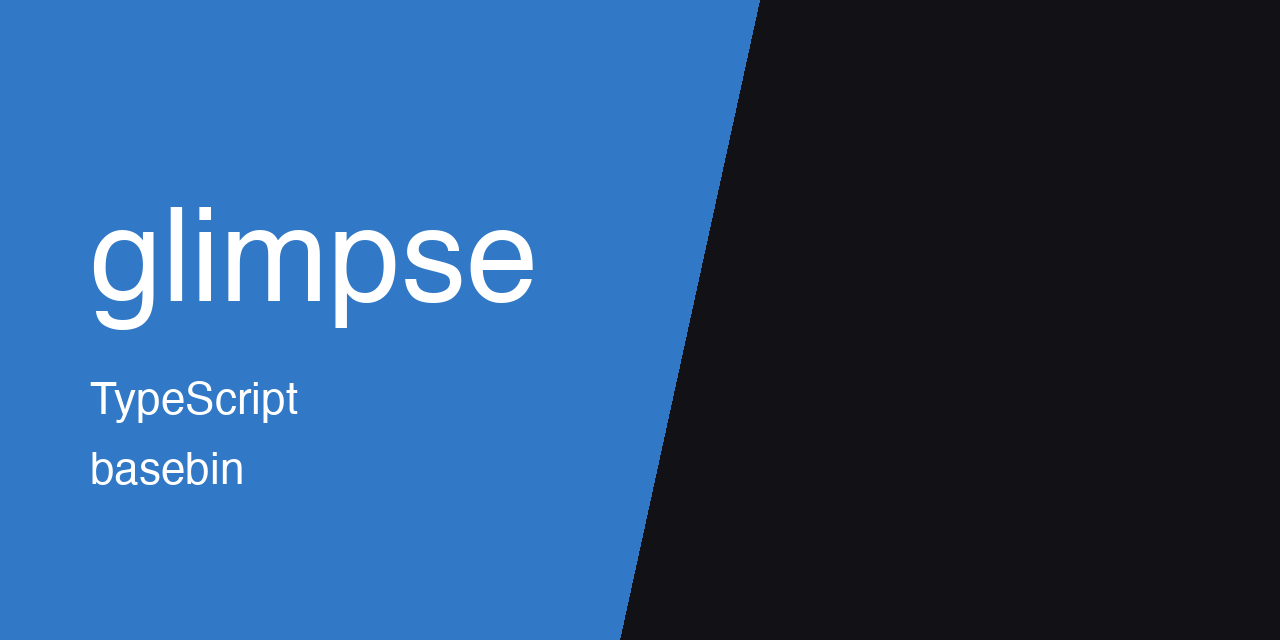
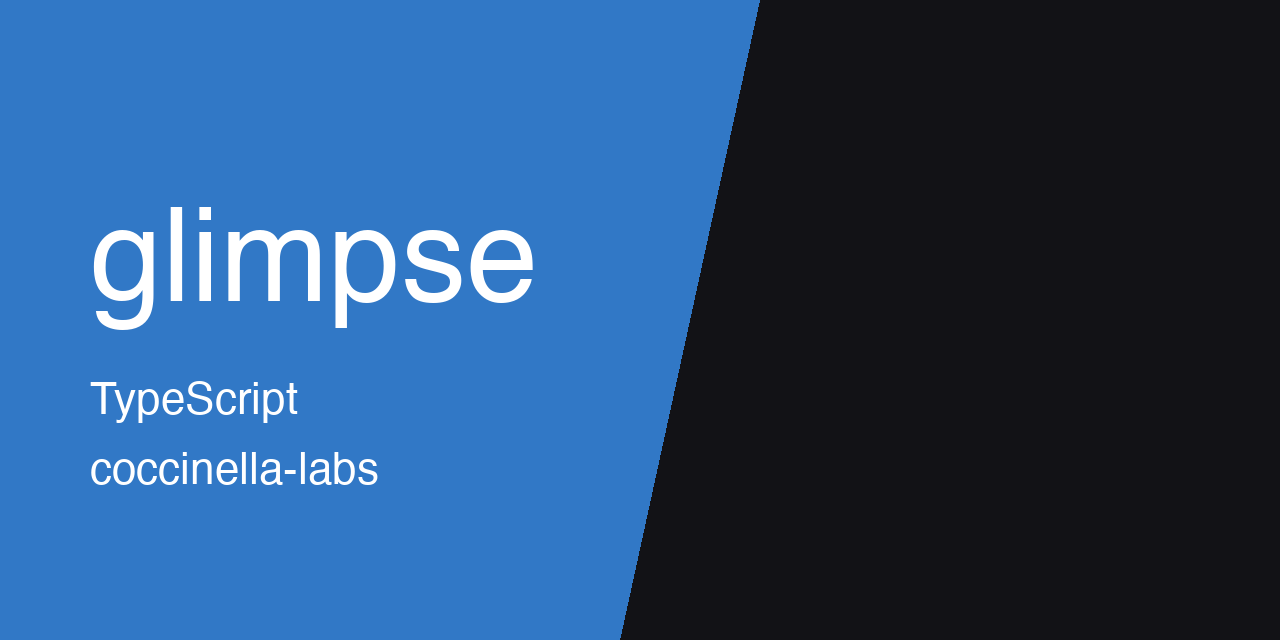
[docs] move thumbnail to coccinella-labs

Changed region(s): [[0.0625, 0.7188, 0.3125, 0.7812]]

diff --git a/README.md b/README.md
@@ -1,5 +1,5 @@
 <p align="center">
-  <img src="https://raw.githubusercontent.com/basebin/glimpse/main/.github/assets/thumbnail.png" alt="glimpse" width="100%">
+  <img src="https://raw.githubusercontent.com/Coccinella-Labs/glimpse/main/.github/assets/thumbnail.png" alt="glimpse" width="100%">
 </p>
 
 <p align="center"><strong>Glimpse</strong></p>
